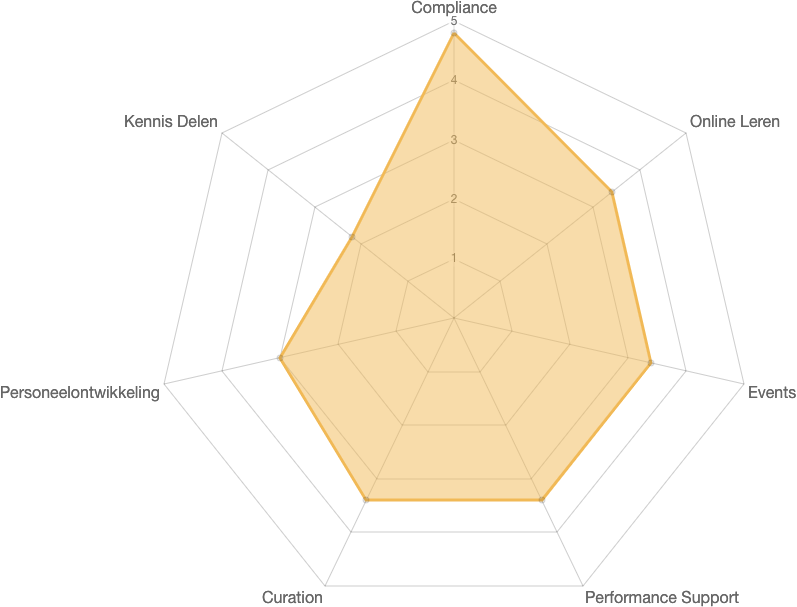
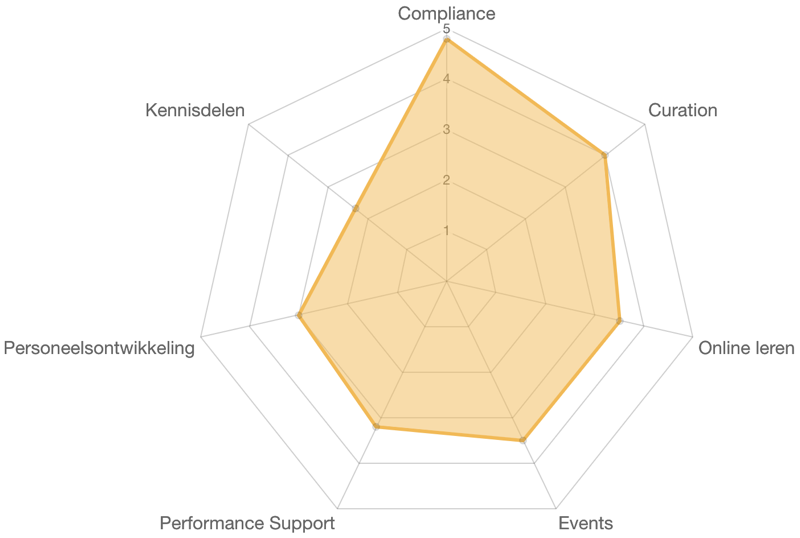
Update LMS questionnaire (#1863)
* Update introduction page text
* Update question wording
* Change introduction page URL
* Update LMS-test button URL on homepage
* Add redirect to new page URL
* Add updated preview

diff --git a/source/javascripts/questionnaire/questionnaire.min.js b/source/javascripts/questionnaire/questionnaire.min.js
@@ -7,4 +7,4 @@ var questionnaire=function(e){var t={};function r(n){if(t[n])return t[n].exports
   Copyright (c) 2012, 2017 Mario Izquierdo
   Dual licensed under the MIT (http://www.opensource.org/licenses/mit-license.php)
   and GPL (http://www.opensource.org/licenses/gpl-license.php) licenses.
-*/o=[r(5)],void 0===(i="function"==typeof(n=function(e){"use strict";e.fn.serializeJSON=function(t){var r,n,o,i,a,s,u,l,c,f,p,d;return r=e.serializeJSON,n=this,o=r.setupOpts(t),i=n.serializeArray(),r.readCheckboxUncheckedValues(i,o,n),a={},e.each(i,function(e,t){s=t.name,u=t.value,c=r.extractTypeAndNameWithNoType(s),f=c.nameWithNoType,(p=c.type)||(p=r.attrFromInputWithName(n,s,"data-value-type")),r.validateType(s,p,o),"skip"!==p&&(d=r.splitInputNameIntoKeysArray(f),!(l=r.parseValue(u,s,p,o))&&r.shouldSkipFalsy(n,s,f,p,o)||r.deepSet(a,d,l,o))}),a},e.serializeJSON={defaultOptions:{checkboxUncheckedValue:void 0,parseNumbers:!1,parseBooleans:!1,parseNulls:!1,parseAll:!1,parseWithFunction:null,skipFalsyValuesForTypes:[],skipFalsyValuesForFields:[],customTypes:{},defaultTypes:{string:function(e){return String(e)},number:function(e){return Number(e)},boolean:function(e){return-1===["false","null","undefined","","0"].indexOf(e)},null:function(e){return-1===["false","null","undefined","","0"].indexOf(e)?e:null},array:function(e){return JSON.parse(e)},object:function(e){return JSON.parse(e)},auto:function(t){return e.serializeJSON.parseValue(t,null,null,{parseNumbers:!0,parseBooleans:!0,parseNulls:!0})},skip:null},useIntKeysAsArrayIndex:!1},setupOpts:function(t){var r,n,o,i,a,s;for(r in s=e.serializeJSON,null==t&&(t={}),o=s.defaultOptions||{},n=["checkboxUncheckedValue","parseNumbers","parseBooleans","parseNulls","parseAll","parseWithFunction","skipFalsyValuesForTypes","skipFalsyValuesForFields","customTypes","defaultTypes","useIntKeysAsArrayIndex"],t)if(-1===n.indexOf(r))throw new Error("serializeJSON ERROR: invalid option '"+r+"'. Please use one of "+n.join(", "));return a=(i=function(e){return!1!==t[e]&&""!==t[e]&&(t[e]||o[e])})("parseAll"),{checkboxUncheckedValue:i("checkboxUncheckedValue"),parseNumbers:a||i("parseNumbers"),parseBooleans:a||i("parseBooleans"),parseNulls:a||i("parseNulls"),parseWithFunction:i("parseWithFunction"),skipFalsyValuesForTypes:i("skipFalsyValuesForTypes"),skipFalsyValuesForFields:i("skipFalsyValuesForFields"),typeFunctions:e.extend({},i("defaultTypes"),i("customTypes")),useIntKeysAsArrayIndex:i("useIntKeysAsArrayIndex")}},parseValue:function(t,r,n,o){var i,a;return i=e.serializeJSON,a=t,o.typeFunctions&&n&&o.typeFunctions[n]?a=o.typeFunctions[n](t):o.parseNumbers&&i.isNumeric(t)?a=Number(t):!o.parseBooleans||"true"!==t&&"false"!==t?o.parseNulls&&"null"==t&&(a=null):a="true"===t,o.parseWithFunction&&!n&&(a=o.parseWithFunction(a,r)),a},isObject:function(e){return e===Object(e)},isUndefined:function(e){return void 0===e},isValidArrayIndex:function(e){return/^[0-9]+$/.test(String(e))},isNumeric:function(e){return e-parseFloat(e)>=0},optionKeys:function(e){if(Object.keys)return Object.keys(e);var t,r=[];for(t in e)r.push(t);return r},readCheckboxUncheckedValues:function(t,r,n){var o,i,a;null==r&&(r={}),e.serializeJSON,o="input[type=checkbox][name]:not(:checked):not([disabled])",n.find(o).add(n.filter(o)).each(function(n,o){if(i=e(o),null==(a=i.attr("data-unchecked-value"))&&(a=r.checkboxUncheckedValue),null!=a){if(o.name&&-1!==o.name.indexOf("[]["))throw new Error("serializeJSON ERROR: checkbox unchecked values are not supported on nested arrays of objects like '"+o.name+"'. See https://github.com/marioizquierdo/jquery.serializeJSON/issues/67");t.push({name:o.name,value:a})}})},extractTypeAndNameWithNoType:function(e){var t;return(t=e.match(/(.*):([^:]+)$/))?{nameWithNoType:t[1],type:t[2]}:{nameWithNoType:e,type:null}},shouldSkipFalsy:function(t,r,n,o,i){var a=e.serializeJSON,s=a.attrFromInputWithName(t,r,"data-skip-falsy");if(null!=s)return"false"!==s;var u=i.skipFalsyValuesForFields;if(u&&(-1!==u.indexOf(n)||-1!==u.indexOf(r)))return!0;var l=i.skipFalsyValuesForTypes;return null==o&&(o="string"),!(!l||-1===l.indexOf(o))},attrFromInputWithName:function(e,t,r){var n,o;return n=t.replace(/(:|\.|\[|\]|\s)/g,"\\$1"),o='[name="'+n+'"]',e.find(o).add(e.filter(o)).attr(r)},validateType:function(t,r,n){var o,i;if(i=e.serializeJSON,o=i.optionKeys(n?n.typeFunctions:i.defaultOptions.defaultTypes),r&&-1===o.indexOf(r))throw new Error("serializeJSON ERROR: Invalid type "+r+" found in input name '"+t+"', please use one of "+o.join(", "));return!0},splitInputNameIntoKeysArray:function(t){var r;return e.serializeJSON,r=t.split("["),""===(r=e.map(r,function(e){return e.replace(/\]/g,"")}))[0]&&r.shift(),r},deepSet:function(t,r,n,o){var i,a,s,u,l,c;if(null==o&&(o={}),(c=e.serializeJSON).isUndefined(t))throw new Error("ArgumentError: param 'o' expected to be an object or array, found undefined");if(!r||0===r.length)throw new Error("ArgumentError: param 'keys' expected to be an array with least one element");i=r[0],1===r.length?""===i?t.push(n):t[i]=n:(a=r[1],""===i&&(u=t.length-1,l=t[u],i=c.isObject(l)&&(c.isUndefined(l[a])||r.length>2)?u:u+1),""===a?!c.isUndefined(t[i])&&e.isArray(t[i])||(t[i]=[]):o.useIntKeysAsArrayIndex&&c.isValidArrayIndex(a)?!c.isUndefined(t[i])&&e.isArray(t[i])||(t[i]=[]):!c.isUndefined(t[i])&&c.isObject(t[i])||(t[i]={}),s=r.slice(1),c.deepSet(t[i],s,n,o))}}})?n.apply(t,o):n)||(e.exports=i)},function(e,t){e.exports=jQuery},function(e,t,r){var n=r(7);"string"==typeof n&&(n=[[e.i,n,""]]);var o={hmr:!0,transform:void 0,insertInto:void 0};r(0)(n,o);n.locals&&(e.exports=n.locals)},function(e,t,r){},function(e,t){e.exports=function(e){var t="undefined"!=typeof window&&window.location;if(!t)throw new Error("fixUrls requires window.location");if(!e||"string"!=typeof e)return e;var r=t.protocol+"//"+t.host,n=r+t.pathname.replace(/\/[^\/]*$/,"/");return e.replace(/url\s*\(((?:[^)(]|\((?:[^)(]+|\([^)(]*\))*\))*)\)/gi,function(e,t){var o,i=t.trim().replace(/^"(.*)"$/,function(e,t){return t}).replace(/^'(.*)'$/,function(e,t){return t});return/^(#|data:|http:\/\/|https:\/\/|file:\/\/\/|\s*$)/i.test(i)?e:(o=0===i.indexOf("//")?i:0===i.indexOf("/")?r+i:n+i.replace(/^\.\//,""),"url("+JSON.stringify(o)+")")})}},function(e,t,r){"use strict";var n=r(1),o=r(2),i={brackets:function(e){return e+"[]"},indices:function(e,t){return e+"["+t+"]"},repeat:function(e){return e}},a=Date.prototype.toISOString,s={delimiter:"&",encode:!0,encoder:n.encode,encodeValuesOnly:!1,serializeDate:function(e){return a.call(e)},skipNulls:!1,strictNullHandling:!1},u=function e(t,r,o,i,a,u,l,c,f,p,d,y){var h=t;if("function"==typeof l)h=l(r,h);else if(h instanceof Date)h=p(h);else if(null===h){if(i)return u&&!y?u(r,s.encoder):r;h=""}if("string"==typeof h||"number"==typeof h||"boolean"==typeof h||n.isBuffer(h))return u?[d(y?r:u(r,s.encoder))+"="+d(u(h,s.encoder))]:[d(r)+"="+d(String(h))];var v,b=[];if(void 0===h)return b;if(Array.isArray(l))v=l;else{var m=Object.keys(h);v=c?m.sort(c):m}for(var g=0;g<v.length;++g){var O=v[g];a&&null===h[O]||(b=Array.isArray(h)?b.concat(e(h[O],o(r,O),o,i,a,u,l,c,f,p,d,y)):b.concat(e(h[O],r+(f?"."+O:"["+O+"]"),o,i,a,u,l,c,f,p,d,y)))}return b};e.exports=function(e,t){var r=e,a=t?n.assign({},t):{};if(null!==a.encoder&&void 0!==a.encoder&&"function"!=typeof a.encoder)throw new TypeError("Encoder has to be a function.");var l=void 0===a.delimiter?s.delimiter:a.delimiter,c="boolean"==typeof a.strictNullHandling?a.strictNullHandling:s.strictNullHandling,f="boolean"==typeof a.skipNulls?a.skipNulls:s.skipNulls,p="boolean"==typeof a.encode?a.encode:s.encode,d="function"==typeof a.encoder?a.encoder:s.encoder,y="function"==typeof a.sort?a.sort:null,h=void 0!==a.allowDots&&a.allowDots,v="function"==typeof a.serializeDate?a.serializeDate:s.serializeDate,b="boolean"==typeof a.encodeValuesOnly?a.encodeValuesOnly:s.encodeValuesOnly;if(void 0===a.format)a.format=o.default;else if(!Object.prototype.hasOwnProperty.call(o.formatters,a.format))throw new TypeError("Unknown format option provided.");var m,g,O=o.formatters[a.format];"function"==typeof a.filter?r=(g=a.filter)("",r):Array.isArray(a.filter)&&(m=g=a.filter);var j,A=[];if("object"!=typeof r||null===r)return"";j=a.arrayFormat in i?a.arrayFormat:"indices"in a?a.indices?"indices":"repeat":"indices";var x=i[j];m||(m=Object.keys(r)),y&&m.sort(y);for(var w=0;w<m.length;++w){var N=m[w];f&&null===r[N]||(A=A.concat(u(r[N],N,x,c,f,p?d:null,g,y,h,v,O,b)))}var k=A.join(l),S=!0===a.addQueryPrefix?"?":"";return k.length>0?S+k:""}},function(e,t,r){"use strict";var n=r(1),o=Object.prototype.hasOwnProperty,i={allowDots:!1,allowPrototypes:!1,arrayLimit:20,decoder:n.decode,delimiter:"&",depth:5,parameterLimit:1e3,plainObjects:!1,strictNullHandling:!1},a=function(e,t,r){if(e){var n=r.allowDots?e.replace(/\.([^.[]+)/g,"[$1]"):e,i=/(\[[^[\]]*])/g,a=/(\[[^[\]]*])/.exec(n),s=a?n.slice(0,a.index):n,u=[];if(s){if(!r.plainObjects&&o.call(Object.prototype,s)&&!r.allowPrototypes)return;u.push(s)}for(var l=0;null!==(a=i.exec(n))&&l<r.depth;){if(l+=1,!r.plainObjects&&o.call(Object.prototype,a[1].slice(1,-1))&&!r.allowPrototypes)return;u.push(a[1])}return a&&u.push("["+n.slice(a.index)+"]"),function(e,t,r){for(var n=t,o=e.length-1;o>=0;--o){var i,a=e[o];if("[]"===a)i=(i=[]).concat(n);else{i=r.plainObjects?Object.create(null):{};var s="["===a.charAt(0)&&"]"===a.charAt(a.length-1)?a.slice(1,-1):a,u=parseInt(s,10);!isNaN(u)&&a!==s&&String(u)===s&&u>=0&&r.parseArrays&&u<=r.arrayLimit?(i=[])[u]=n:i[s]=n}n=i}return n}(u,t,r)}};e.exports=function(e,t){var r=t?n.assign({},t):{};if(null!==r.decoder&&void 0!==r.decoder&&"function"!=typeof r.decoder)throw new TypeError("Decoder has to be a function.");if(r.ignoreQueryPrefix=!0===r.ignoreQueryPrefix,r.delimiter="string"==typeof r.delimiter||n.isRegExp(r.delimiter)?r.delimiter:i.delimiter,r.depth="number"==typeof r.depth?r.depth:i.depth,r.arrayLimit="number"==typeof r.arrayLimit?r.arrayLimit:i.arrayLimit,r.parseArrays=!1!==r.parseArrays,r.decoder="function"==typeof r.decoder?r.decoder:i.decoder,r.allowDots="boolean"==typeof r.allowDots?r.allowDots:i.allowDots,r.plainObjects="boolean"==typeof r.plainObjects?r.plainObjects:i.plainObjects,r.allowPrototypes="boolean"==typeof r.allowPrototypes?r.allowPrototypes:i.allowPrototypes,r.parameterLimit="number"==typeof r.parameterLimit?r.parameterLimit:i.parameterLimit,r.strictNullHandling="boolean"==typeof r.strictNullHandling?r.strictNullHandling:i.strictNullHandling,""===e||null===e||void 0===e)return r.plainObjects?Object.create(null):{};for(var s="string"==typeof e?function(e,t){for(var r={},n=t.ignoreQueryPrefix?e.replace(/^\?/,""):e,a=t.parameterLimit===1/0?void 0:t.parameterLimit,s=n.split(t.delimiter,a),u=0;u<s.length;++u){var l,c,f=s[u],p=f.indexOf("]="),d=-1===p?f.indexOf("="):p+1;-1===d?(l=t.decoder(f,i.decoder),c=t.strictNullHandling?null:""):(l=t.decoder(f.slice(0,d),i.decoder),c=t.decoder(f.slice(d+1),i.decoder)),o.call(r,l)?r[l]=[].concat(r[l]).concat(c):r[l]=c}return r}(e,r):e,u=r.plainObjects?Object.create(null):{},l=Object.keys(s),c=0;c<l.length;++c){var f=l[c],p=a(f,s[f],r);u=n.merge(u,p,r)}return n.compact(u)}},function(e,t,r){var n=r(12);"string"==typeof n&&(n=[[e.i,n,""]]);var o={hmr:!0,transform:void 0,insertInto:void 0};r(0)(n,o);n.locals&&(e.exports=n.locals)},function(e,t,r){},function(e,t,r){e.exports=r.p+"./data/questions.json"},function(e,t,r){"use strict";r.r(t);r(4);var n={getAverageGroupResults:function(e){var t=[];return e.forEach(function(e){var r=0;e.questions.forEach(function(e){r+=Number(e.answer)});var n={name:e.title,value:r/e.questions.length};t.push(n)}),t}};r(6);function o(e,t){for(var r=0;r<t.length;r++){var n=t[r];n.enumerable=n.enumerable||!1,n.configurable=!0,"value"in n&&(n.writable=!0),Object.defineProperty(e,n.key,n)}}var i=function(){function e(t,r){!function(e,t){if(!(e instanceof t))throw new TypeError("Cannot call a class as a function")}(this,e),function(e,t,r){t in e?Object.defineProperty(e,t,{value:r,enumerable:!0,configurable:!0,writable:!0}):e[t]=r}(this,"getAverageGroupResults",function(e){return n.getAverageGroupResults(e)}),this.data=r,this.element=document.querySelector(t),this.element.classList.add("questions"),r.forEach(this.addGroup,this)}return function(e,t,r){t&&o(e.prototype,t),r&&o(e,r)}(e,[{key:"addGroup",value:function(e,t){var r=this,n=document.createElement("div");n.setAttribute("class","group"),n.innerHTML+='<input type="hidden"\n                                 name="groups['.concat(t,'][title]"\n                                 value="').concat(e.title,'">'),e.questions.forEach(function(o,i){var a=r.addQuestion(o,i,e.title,t);n.appendChild(a)}),this.element.appendChild(n)}},{key:"addQuestion",value:function(e,t,r,n){var o=document.createElement("div");o.setAttribute("class","question");var i=document.createElement("p");i.innerHTML="Bij onze organisatie "+e,o.appendChild(i),o.innerHTML+='<input type="hidden"\n                                 name="groups['.concat(n,"][questions][").concat(t,'][question]"\n                                 value="').concat(e,'">');var a=document.createElement("div");a.setAttribute("class","options");for(var s="groups[".concat(n,"][questions][").concat(t,"][answer]"),u=5;u--;){var l=u+1,c="option-".concat(n,"-").concat(t,"-").concat(u);a.innerHTML+=this.createOptionHTML(s,l,c)}return a.innerHTML+='<input type="radio" name="'.concat(s,'" value="0" checked>'),o.appendChild(a),o}},{key:"createOptionHTML",value:function(e,t,r){return'\n      <input type="radio" name="'.concat(e,'" value="').concat(t,'" id="').concat(r,'">\n      <label for="').concat(r,'">\n        <div class="option">').concat(t,"</div>\n      </label>\n    ")}},{key:"serializeJSON",value:function(){return $(this.element).serializeJSON({useIntKeysAsArrayIndex:!0})}}]),e}(),a=r(3),s=r.n(a);r(11);function u(e,t){for(var r=0;r<t.length;r++){var n=t[r];n.enumerable=n.enumerable||!1,n.configurable=!0,"value"in n&&(n.writable=!0),Object.defineProperty(e,n.key,n)}}function l(e,t,r){return t in e?Object.defineProperty(e,t,{value:r,enumerable:!0,configurable:!0,writable:!0}):e[t]=r,e}var c=function(){function e(t,r){!function(e,t){if(!(e instanceof t))throw new TypeError("Cannot call a class as a function")}(this,e),"string"==typeof r&&(r=e.parseQueryString(r)),"string"==typeof r.groups&&(r.groups=JSON.parse(r.groups)),Array.isArray(r.groups[0].questions)&&(r.groups=e.getAverageGroupResults(r.groups)),r.groups.sort(function(e,t){return t.value-e.value}),this.data=this.parseData(r),this.element=document.querySelector(t),this.element.classList.add("results"),this.charts=[],e.chartOptions.forEach(this.renderChart,this)}return function(e,t,r){t&&u(e.prototype,t),r&&u(e,r)}(e,[{key:"renderChart",value:function(e){e.data=this.data;var t=document.createElement("canvas");t.setAttribute("class","chart"),this.element.appendChild(t);var r=new Chart(t,e);this.charts.push(r)}},{key:"update",value:function(e){var t=this;this.data=this.parseData(e),this.charts.forEach(function(e){e.data=t.data,e.update()})}},{key:"parseData",value:function(e){var t=[],r=[];return e.groups.forEach(function(e){t.push(e.name),r.push(Number(e.value))}),{labels:t,datasets:[{data:r,backgroundColor:"rgba(241, 185, 86, 0.5)",borderColor:"#f1b956"}]}}}]),e}();l(c,"parseQueryString",function(e){return s.a.parse(e,{ignoreQueryPrefix:!0})}),l(c,"getAverageGroupResults",function(e){return n.getAverageGroupResults(e)}),l(c,"chartOptions",[{type:"radar",options:{legend:{display:!1},scale:{ticks:{beginAtZero:!0,stepSize:1,max:5},pointLabels:{fontSize:16}}}},{type:"horizontalBar",options:{legend:{display:!1},scales:{xAxes:[{ticks:{beginAtZero:!0,stepSize:1,max:5,fontSize:16,fontColor:"#303030"}}],yAxes:[{ticks:{autoSkip:!1,fontSize:16,fontColor:"#303030"}}]}}}]);r(13);r.d(t,"Questions",function(){return i}),r.d(t,"Results",function(){return c})}]);
+*/o=[r(5)],void 0===(i="function"==typeof(n=function(e){"use strict";e.fn.serializeJSON=function(t){var r,n,o,i,a,s,u,l,c,f,p,d;return r=e.serializeJSON,n=this,o=r.setupOpts(t),i=n.serializeArray(),r.readCheckboxUncheckedValues(i,o,n),a={},e.each(i,function(e,t){s=t.name,u=t.value,c=r.extractTypeAndNameWithNoType(s),f=c.nameWithNoType,(p=c.type)||(p=r.attrFromInputWithName(n,s,"data-value-type")),r.validateType(s,p,o),"skip"!==p&&(d=r.splitInputNameIntoKeysArray(f),!(l=r.parseValue(u,s,p,o))&&r.shouldSkipFalsy(n,s,f,p,o)||r.deepSet(a,d,l,o))}),a},e.serializeJSON={defaultOptions:{checkboxUncheckedValue:void 0,parseNumbers:!1,parseBooleans:!1,parseNulls:!1,parseAll:!1,parseWithFunction:null,skipFalsyValuesForTypes:[],skipFalsyValuesForFields:[],customTypes:{},defaultTypes:{string:function(e){return String(e)},number:function(e){return Number(e)},boolean:function(e){return-1===["false","null","undefined","","0"].indexOf(e)},null:function(e){return-1===["false","null","undefined","","0"].indexOf(e)?e:null},array:function(e){return JSON.parse(e)},object:function(e){return JSON.parse(e)},auto:function(t){return e.serializeJSON.parseValue(t,null,null,{parseNumbers:!0,parseBooleans:!0,parseNulls:!0})},skip:null},useIntKeysAsArrayIndex:!1},setupOpts:function(t){var r,n,o,i,a,s;for(r in s=e.serializeJSON,null==t&&(t={}),o=s.defaultOptions||{},n=["checkboxUncheckedValue","parseNumbers","parseBooleans","parseNulls","parseAll","parseWithFunction","skipFalsyValuesForTypes","skipFalsyValuesForFields","customTypes","defaultTypes","useIntKeysAsArrayIndex"],t)if(-1===n.indexOf(r))throw new Error("serializeJSON ERROR: invalid option '"+r+"'. Please use one of "+n.join(", "));return a=(i=function(e){return!1!==t[e]&&""!==t[e]&&(t[e]||o[e])})("parseAll"),{checkboxUncheckedValue:i("checkboxUncheckedValue"),parseNumbers:a||i("parseNumbers"),parseBooleans:a||i("parseBooleans"),parseNulls:a||i("parseNulls"),parseWithFunction:i("parseWithFunction"),skipFalsyValuesForTypes:i("skipFalsyValuesForTypes"),skipFalsyValuesForFields:i("skipFalsyValuesForFields"),typeFunctions:e.extend({},i("defaultTypes"),i("customTypes")),useIntKeysAsArrayIndex:i("useIntKeysAsArrayIndex")}},parseValue:function(t,r,n,o){var i,a;return i=e.serializeJSON,a=t,o.typeFunctions&&n&&o.typeFunctions[n]?a=o.typeFunctions[n](t):o.parseNumbers&&i.isNumeric(t)?a=Number(t):!o.parseBooleans||"true"!==t&&"false"!==t?o.parseNulls&&"null"==t&&(a=null):a="true"===t,o.parseWithFunction&&!n&&(a=o.parseWithFunction(a,r)),a},isObject:function(e){return e===Object(e)},isUndefined:function(e){return void 0===e},isValidArrayIndex:function(e){return/^[0-9]+$/.test(String(e))},isNumeric:function(e){return e-parseFloat(e)>=0},optionKeys:function(e){if(Object.keys)return Object.keys(e);var t,r=[];for(t in e)r.push(t);return r},readCheckboxUncheckedValues:function(t,r,n){var o,i,a;null==r&&(r={}),e.serializeJSON,o="input[type=checkbox][name]:not(:checked):not([disabled])",n.find(o).add(n.filter(o)).each(function(n,o){if(i=e(o),null==(a=i.attr("data-unchecked-value"))&&(a=r.checkboxUncheckedValue),null!=a){if(o.name&&-1!==o.name.indexOf("[]["))throw new Error("serializeJSON ERROR: checkbox unchecked values are not supported on nested arrays of objects like '"+o.name+"'. See https://github.com/marioizquierdo/jquery.serializeJSON/issues/67");t.push({name:o.name,value:a})}})},extractTypeAndNameWithNoType:function(e){var t;return(t=e.match(/(.*):([^:]+)$/))?{nameWithNoType:t[1],type:t[2]}:{nameWithNoType:e,type:null}},shouldSkipFalsy:function(t,r,n,o,i){var a=e.serializeJSON,s=a.attrFromInputWithName(t,r,"data-skip-falsy");if(null!=s)return"false"!==s;var u=i.skipFalsyValuesForFields;if(u&&(-1!==u.indexOf(n)||-1!==u.indexOf(r)))return!0;var l=i.skipFalsyValuesForTypes;return null==o&&(o="string"),!(!l||-1===l.indexOf(o))},attrFromInputWithName:function(e,t,r){var n,o;return n=t.replace(/(:|\.|\[|\]|\s)/g,"\\$1"),o='[name="'+n+'"]',e.find(o).add(e.filter(o)).attr(r)},validateType:function(t,r,n){var o,i;if(i=e.serializeJSON,o=i.optionKeys(n?n.typeFunctions:i.defaultOptions.defaultTypes),r&&-1===o.indexOf(r))throw new Error("serializeJSON ERROR: Invalid type "+r+" found in input name '"+t+"', please use one of "+o.join(", "));return!0},splitInputNameIntoKeysArray:function(t){var r;return e.serializeJSON,r=t.split("["),""===(r=e.map(r,function(e){return e.replace(/\]/g,"")}))[0]&&r.shift(),r},deepSet:function(t,r,n,o){var i,a,s,u,l,c;if(null==o&&(o={}),(c=e.serializeJSON).isUndefined(t))throw new Error("ArgumentError: param 'o' expected to be an object or array, found undefined");if(!r||0===r.length)throw new Error("ArgumentError: param 'keys' expected to be an array with least one element");i=r[0],1===r.length?""===i?t.push(n):t[i]=n:(a=r[1],""===i&&(u=t.length-1,l=t[u],i=c.isObject(l)&&(c.isUndefined(l[a])||r.length>2)?u:u+1),""===a?!c.isUndefined(t[i])&&e.isArray(t[i])||(t[i]=[]):o.useIntKeysAsArrayIndex&&c.isValidArrayIndex(a)?!c.isUndefined(t[i])&&e.isArray(t[i])||(t[i]=[]):!c.isUndefined(t[i])&&c.isObject(t[i])||(t[i]={}),s=r.slice(1),c.deepSet(t[i],s,n,o))}}})?n.apply(t,o):n)||(e.exports=i)},function(e,t){e.exports=jQuery},function(e,t,r){var n=r(7);"string"==typeof n&&(n=[[e.i,n,""]]);var o={hmr:!0,transform:void 0,insertInto:void 0};r(0)(n,o);n.locals&&(e.exports=n.locals)},function(e,t,r){},function(e,t){e.exports=function(e){var t="undefined"!=typeof window&&window.location;if(!t)throw new Error("fixUrls requires window.location");if(!e||"string"!=typeof e)return e;var r=t.protocol+"//"+t.host,n=r+t.pathname.replace(/\/[^\/]*$/,"/");return e.replace(/url\s*\(((?:[^)(]|\((?:[^)(]+|\([^)(]*\))*\))*)\)/gi,function(e,t){var o,i=t.trim().replace(/^"(.*)"$/,function(e,t){return t}).replace(/^'(.*)'$/,function(e,t){return t});return/^(#|data:|http:\/\/|https:\/\/|file:\/\/\/|\s*$)/i.test(i)?e:(o=0===i.indexOf("//")?i:0===i.indexOf("/")?r+i:n+i.replace(/^\.\//,""),"url("+JSON.stringify(o)+")")})}},function(e,t,r){"use strict";var n=r(1),o=r(2),i={brackets:function(e){return e+"[]"},indices:function(e,t){return e+"["+t+"]"},repeat:function(e){return e}},a=Date.prototype.toISOString,s={delimiter:"&",encode:!0,encoder:n.encode,encodeValuesOnly:!1,serializeDate:function(e){return a.call(e)},skipNulls:!1,strictNullHandling:!1},u=function e(t,r,o,i,a,u,l,c,f,p,d,y){var h=t;if("function"==typeof l)h=l(r,h);else if(h instanceof Date)h=p(h);else if(null===h){if(i)return u&&!y?u(r,s.encoder):r;h=""}if("string"==typeof h||"number"==typeof h||"boolean"==typeof h||n.isBuffer(h))return u?[d(y?r:u(r,s.encoder))+"="+d(u(h,s.encoder))]:[d(r)+"="+d(String(h))];var v,b=[];if(void 0===h)return b;if(Array.isArray(l))v=l;else{var m=Object.keys(h);v=c?m.sort(c):m}for(var g=0;g<v.length;++g){var O=v[g];a&&null===h[O]||(b=Array.isArray(h)?b.concat(e(h[O],o(r,O),o,i,a,u,l,c,f,p,d,y)):b.concat(e(h[O],r+(f?"."+O:"["+O+"]"),o,i,a,u,l,c,f,p,d,y)))}return b};e.exports=function(e,t){var r=e,a=t?n.assign({},t):{};if(null!==a.encoder&&void 0!==a.encoder&&"function"!=typeof a.encoder)throw new TypeError("Encoder has to be a function.");var l=void 0===a.delimiter?s.delimiter:a.delimiter,c="boolean"==typeof a.strictNullHandling?a.strictNullHandling:s.strictNullHandling,f="boolean"==typeof a.skipNulls?a.skipNulls:s.skipNulls,p="boolean"==typeof a.encode?a.encode:s.encode,d="function"==typeof a.encoder?a.encoder:s.encoder,y="function"==typeof a.sort?a.sort:null,h=void 0!==a.allowDots&&a.allowDots,v="function"==typeof a.serializeDate?a.serializeDate:s.serializeDate,b="boolean"==typeof a.encodeValuesOnly?a.encodeValuesOnly:s.encodeValuesOnly;if(void 0===a.format)a.format=o.default;else if(!Object.prototype.hasOwnProperty.call(o.formatters,a.format))throw new TypeError("Unknown format option provided.");var m,g,O=o.formatters[a.format];"function"==typeof a.filter?r=(g=a.filter)("",r):Array.isArray(a.filter)&&(m=g=a.filter);var j,A=[];if("object"!=typeof r||null===r)return"";j=a.arrayFormat in i?a.arrayFormat:"indices"in a?a.indices?"indices":"repeat":"indices";var x=i[j];m||(m=Object.keys(r)),y&&m.sort(y);for(var w=0;w<m.length;++w){var N=m[w];f&&null===r[N]||(A=A.concat(u(r[N],N,x,c,f,p?d:null,g,y,h,v,O,b)))}var k=A.join(l),S=!0===a.addQueryPrefix?"?":"";return k.length>0?S+k:""}},function(e,t,r){"use strict";var n=r(1),o=Object.prototype.hasOwnProperty,i={allowDots:!1,allowPrototypes:!1,arrayLimit:20,decoder:n.decode,delimiter:"&",depth:5,parameterLimit:1e3,plainObjects:!1,strictNullHandling:!1},a=function(e,t,r){if(e){var n=r.allowDots?e.replace(/\.([^.[]+)/g,"[$1]"):e,i=/(\[[^[\]]*])/g,a=/(\[[^[\]]*])/.exec(n),s=a?n.slice(0,a.index):n,u=[];if(s){if(!r.plainObjects&&o.call(Object.prototype,s)&&!r.allowPrototypes)return;u.push(s)}for(var l=0;null!==(a=i.exec(n))&&l<r.depth;){if(l+=1,!r.plainObjects&&o.call(Object.prototype,a[1].slice(1,-1))&&!r.allowPrototypes)return;u.push(a[1])}return a&&u.push("["+n.slice(a.index)+"]"),function(e,t,r){for(var n=t,o=e.length-1;o>=0;--o){var i,a=e[o];if("[]"===a)i=(i=[]).concat(n);else{i=r.plainObjects?Object.create(null):{};var s="["===a.charAt(0)&&"]"===a.charAt(a.length-1)?a.slice(1,-1):a,u=parseInt(s,10);!isNaN(u)&&a!==s&&String(u)===s&&u>=0&&r.parseArrays&&u<=r.arrayLimit?(i=[])[u]=n:i[s]=n}n=i}return n}(u,t,r)}};e.exports=function(e,t){var r=t?n.assign({},t):{};if(null!==r.decoder&&void 0!==r.decoder&&"function"!=typeof r.decoder)throw new TypeError("Decoder has to be a function.");if(r.ignoreQueryPrefix=!0===r.ignoreQueryPrefix,r.delimiter="string"==typeof r.delimiter||n.isRegExp(r.delimiter)?r.delimiter:i.delimiter,r.depth="number"==typeof r.depth?r.depth:i.depth,r.arrayLimit="number"==typeof r.arrayLimit?r.arrayLimit:i.arrayLimit,r.parseArrays=!1!==r.parseArrays,r.decoder="function"==typeof r.decoder?r.decoder:i.decoder,r.allowDots="boolean"==typeof r.allowDots?r.allowDots:i.allowDots,r.plainObjects="boolean"==typeof r.plainObjects?r.plainObjects:i.plainObjects,r.allowPrototypes="boolean"==typeof r.allowPrototypes?r.allowPrototypes:i.allowPrototypes,r.parameterLimit="number"==typeof r.parameterLimit?r.parameterLimit:i.parameterLimit,r.strictNullHandling="boolean"==typeof r.strictNullHandling?r.strictNullHandling:i.strictNullHandling,""===e||null===e||void 0===e)return r.plainObjects?Object.create(null):{};for(var s="string"==typeof e?function(e,t){for(var r={},n=t.ignoreQueryPrefix?e.replace(/^\?/,""):e,a=t.parameterLimit===1/0?void 0:t.parameterLimit,s=n.split(t.delimiter,a),u=0;u<s.length;++u){var l,c,f=s[u],p=f.indexOf("]="),d=-1===p?f.indexOf("="):p+1;-1===d?(l=t.decoder(f,i.decoder),c=t.strictNullHandling?null:""):(l=t.decoder(f.slice(0,d),i.decoder),c=t.decoder(f.slice(d+1),i.decoder)),o.call(r,l)?r[l]=[].concat(r[l]).concat(c):r[l]=c}return r}(e,r):e,u=r.plainObjects?Object.create(null):{},l=Object.keys(s),c=0;c<l.length;++c){var f=l[c],p=a(f,s[f],r);u=n.merge(u,p,r)}return n.compact(u)}},function(e,t,r){var n=r(12);"string"==typeof n&&(n=[[e.i,n,""]]);var o={hmr:!0,transform:void 0,insertInto:void 0};r(0)(n,o);n.locals&&(e.exports=n.locals)},function(e,t,r){},function(e,t,r){e.exports=r.p+"./data/questions.json"},function(e,t,r){"use strict";r.r(t);r(4);var n={getAverageGroupResults:function(e){var t=[];return e.forEach(function(e){var r=0;e.questions.forEach(function(e){r+=Number(e.answer)});var n={name:e.title,value:r/e.questions.length};t.push(n)}),t}};r(6);function o(e,t){for(var r=0;r<t.length;r++){var n=t[r];n.enumerable=n.enumerable||!1,n.configurable=!0,"value"in n&&(n.writable=!0),Object.defineProperty(e,n.key,n)}}var i=function(){function e(t,r){!function(e,t){if(!(e instanceof t))throw new TypeError("Cannot call a class as a function")}(this,e),function(e,t,r){t in e?Object.defineProperty(e,t,{value:r,enumerable:!0,configurable:!0,writable:!0}):e[t]=r}(this,"getAverageGroupResults",function(e){return n.getAverageGroupResults(e)}),this.data=r,this.element=document.querySelector(t),this.element.classList.add("questions"),r.forEach(this.addGroup,this)}return function(e,t,r){t&&o(e.prototype,t),r&&o(e,r)}(e,[{key:"addGroup",value:function(e,t){var r=this,n=document.createElement("div");n.setAttribute("class","group"),n.innerHTML+='<input type="hidden"\n                                 name="groups['.concat(t,'][title]"\n                                 value="').concat(e.title,'">'),e.questions.forEach(function(o,i){var a=r.addQuestion(o,i,e.title,t);n.appendChild(a)}),this.element.appendChild(n)}},{key:"addQuestion",value:function(e,t,r,n){var o=document.createElement("div");o.setAttribute("class","question");var i=document.createElement("p");i.innerHTML="In onze organisatie "+e,o.appendChild(i),o.innerHTML+='<input type="hidden"\n                                 name="groups['.concat(n,"][questions][").concat(t,'][question]"\n                                 value="').concat(e,'">');var a=document.createElement("div");a.setAttribute("class","options");for(var s="groups[".concat(n,"][questions][").concat(t,"][answer]"),u=5;u--;){var l=u+1,c="option-".concat(n,"-").concat(t,"-").concat(u);a.innerHTML+=this.createOptionHTML(s,l,c)}return a.innerHTML+='<input type="radio" name="'.concat(s,'" value="0" checked>'),o.appendChild(a),o}},{key:"createOptionHTML",value:function(e,t,r){return'\n      <input type="radio" name="'.concat(e,'" value="').concat(t,'" id="').concat(r,'">\n      <label for="').concat(r,'">\n        <div class="option">').concat(t,"</div>\n      </label>\n    ")}},{key:"serializeJSON",value:function(){return $(this.element).serializeJSON({useIntKeysAsArrayIndex:!0})}}]),e}(),a=r(3),s=r.n(a);r(11);function u(e,t){for(var r=0;r<t.length;r++){var n=t[r];n.enumerable=n.enumerable||!1,n.configurable=!0,"value"in n&&(n.writable=!0),Object.defineProperty(e,n.key,n)}}function l(e,t,r){return t in e?Object.defineProperty(e,t,{value:r,enumerable:!0,configurable:!0,writable:!0}):e[t]=r,e}var c=function(){function e(t,r){!function(e,t){if(!(e instanceof t))throw new TypeError("Cannot call a class as a function")}(this,e),"string"==typeof r&&(r=e.parseQueryString(r)),"string"==typeof r.groups&&(r.groups=JSON.parse(r.groups)),Array.isArray(r.groups[0].questions)&&(r.groups=e.getAverageGroupResults(r.groups)),r.groups.sort(function(e,t){return t.value-e.value}),this.data=this.parseData(r),this.element=document.querySelector(t),this.element.classList.add("results"),this.charts=[],e.chartOptions.forEach(this.renderChart,this)}return function(e,t,r){t&&u(e.prototype,t),r&&u(e,r)}(e,[{key:"renderChart",value:function(e){e.data=this.data;var t=document.createElement("canvas");t.setAttribute("class","chart"),this.element.appendChild(t);var r=new Chart(t,e);this.charts.push(r)}},{key:"update",value:function(e){var t=this;this.data=this.parseData(e),this.charts.forEach(function(e){e.data=t.data,e.update()})}},{key:"parseData",value:function(e){var t=[],r=[];return e.groups.forEach(function(e){t.push(e.name),r.push(Number(e.value))}),{labels:t,datasets:[{data:r,backgroundColor:"rgba(241, 185, 86, 0.5)",borderColor:"#f1b956"}]}}}]),e}();l(c,"parseQueryString",function(e){return s.a.parse(e,{ignoreQueryPrefix:!0})}),l(c,"getAverageGroupResults",function(e){return n.getAverageGroupResults(e)}),l(c,"chartOptions",[{type:"radar",options:{legend:{display:!1},scale:{ticks:{beginAtZero:!0,stepSize:1,max:5},pointLabels:{fontSize:16}}}},{type:"horizontalBar",options:{legend:{display:!1},scales:{xAxes:[{ticks:{beginAtZero:!0,stepSize:1,max:5,fontSize:16,fontColor:"#303030"}}],yAxes:[{ticks:{autoSkip:!1,fontSize:16,fontColor:"#303030"}}]}}}]);r(13);r.d(t,"Questions",function(){return i}),r.d(t,"Results",function(){return c})}]);

diff --git a/source/javascripts/questionnaire/questions.js b/source/javascripts/questionnaire/questions.js
@@ -13,7 +13,7 @@
     {
       "title": "Events",
       "questions": [
-        "vindt een substantieel deel van de trainingen / scholingen via bijeenkomsten niet (online) plaats.",
+        "vindt een substantieel deel van de trainingen / scholingen niet online plaats.",
         "is de cursusadministratie een belangrijk proces.",
         "worden klassikale trainingen en scholingen intern georganiseerd.",
         "worden cursussen en trainingen aan externen aangeboden.",
@@ -23,18 +23,18 @@
     {
       "title": "Compliance",
       "questions": [
-        "moeten we kunnen aantonen dat medewerkers gecertificeerd of bekwaam zijn.",
+        "moeten we kunnen aantonen dat medewerkers gecertificeerd of aantoonbaar bekwaam zijn.",
         "worden bepaalde opleidingen door een externe partij geaccrediteerd.",
-        "is het herhaald aantonen van vakbekwaamheid op specifieke handelingen noodzakelijk.",
-        "is een deel van de trainingen en opleidingen die wij aanbieden verplicht.",
-        "is het van belang dat gegevens over bevoegdheden (certificering) beschikbaar zijn in andere systemen zoals Roostering, EPD, etc."
+        "is het herhaaldelijk aantonen van vakbekwaamheid op specifieke handelingen noodzakelijk.",
+        "is een deel van de aangeboden trainingen en opleidingen verplicht.",
+        "is het van belang dat gegevens over bevoegdheden (certificering) beschikbaar zijn in andere systemen zoals roostering, EPD, etc."
       ]
     },
     {
-      "title": "Kennis delen",
+      "title": "Kennisdelen",
       "questions": [
         "is sociaal leren belangrijk.",
-        "maken experts uit onze eigen organisatie zelf leercontent.",
+        "maken onze experts zelf leercontent.",
         "is het delen van kennis belangrijk.",
         "speelt informeel leren een steeds belangrijkere rol.",
         "werken we met een aanpak zoals 70:20:10 en ontwerpen we leertrajecten vanuit de 5 moments of need."
@@ -43,9 +43,9 @@
     {
       "title": "Performance Support",
       "questions": [
-        "is performance support een belangrijk thema.",
+        "is 'Performance Support' een belangrijk thema.",
         "vindt leren vooral plaats op de werkplek en ondersteunen wij dit met digitale middelen.",
-        "wordt er precies genoeg informatie aangeboden in de vorm die nodig is om effectief te kunnen opereren in het proces.",
+        "wordt informatie precies afgestemd op de noodzaak om effectief te kunnen opereren in het proces.",
         "willen we binnen het LMS zowel formele scholing kunnen aanbieden als ondersteunende instructies die een medewerker te allen tijde kan raadplegen (werkinstructies, protocollen, instructievideo’s, etc.).",
         "is het belangrijk dat leercontent overal snel en makkelijk doorzoek- en vindbaar is (2 clicks en 10 seconden)."
       ]
@@ -56,18 +56,18 @@
         "is het belangrijk dat iedereen een op maat gemaakt leeraanbod krijgt.",
         "bieden we uitgebreide leerpaden aan.",
         "is het evalueren en reviewen van trainingen en e-learning een must.",
-        "meten we of onze trainingen het beoogde effect hebben.",
+        "willen we kunnen controleren of onze trainingen het beoogde effect hebben.",
         "hebben medewerkers een persoonlijk ontwikkelplan."
       ]
     },
     {
-      "title": "Personeelontwikkeling",
+      "title": "Personeelsontwikkeling",
       "questions": [
-        "worden coaching- of jaargesprekken ingezet.",
-        "kunnen medewerkers voor duurdere trainingen een educatie aanvraag doen.",
+        "hebben we coaching- en/of jaargesprekken.",
+        "moeten medewerkers voor kostbare scholing een aanvraag indienen.",
         "is het belangrijk dat medewerkers duurzaam inzetbaar zijn.",
         "houden we rekening met mobiliteit en interne vacatures.",
-        "hebben individuen en afdelingen een eigen leerbudget."
+        "hebben individuen en/of afdelingen een eigen leerbudget."
       ]
     }
   ];

diff --git a/source/stylesheets/questionnaire/_questionnaire.scss b/source/stylesheets/questionnaire/_questionnaire.scss
@@ -15,7 +15,7 @@ $hero-image: "../images/moods/defacto.jpg";
   }
 }
 
-body.welk-lms-past-bij-mij {
+body.wat-voor-lms-past-bij-mij {
   form {
     margin: 0 auto;
     max-width: 800px;
@@ -80,7 +80,7 @@ body.welk-lms-past-bij-mij {
   }
 }
 
-body.welk-lms-past-bij-mij_resultaten {
+body.wat-voor-lms-past-bij-mij_resultaten {
   .results {
     max-width: 960px;
   }
@@ -91,7 +91,7 @@ body.welk-lms-past-bij-mij_resultaten {
 }
 
 @media print {
-  body.welk-lms-past-bij-mij_resultaten {
+  body.wat-voor-lms-past-bij-mij_resultaten {
     .hero.questionnaire {
       background: $white;
       padding: 1em 0;
